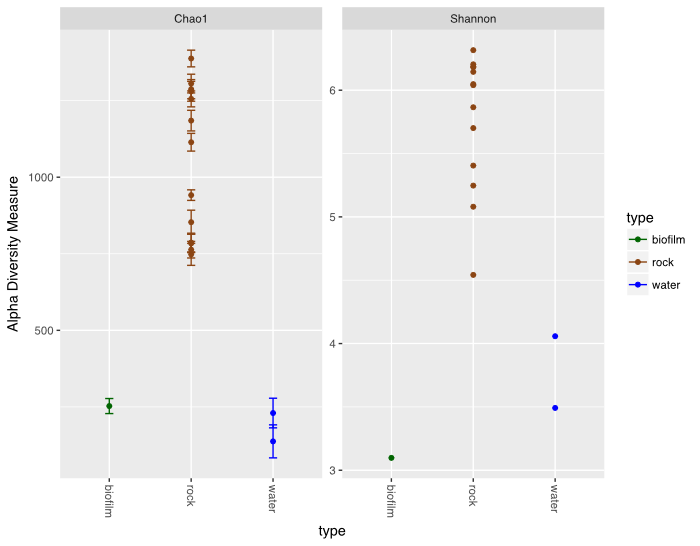
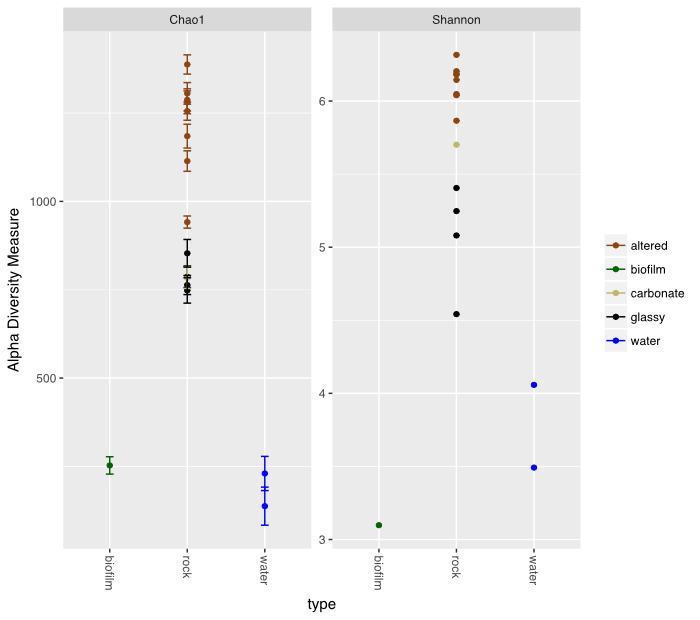
mod

diff --git a/_sass/minima/_base.scss b/_sass/minima/_base.scss
@@ -25,8 +25,6 @@ body {
   font-kerning: normal;
 }
 
-
-
 /**
  * Set `margin-bottom` to maintain vertical rhythm
  */

diff --git a/amplicon/workflow_ex.md b/amplicon/workflow_ex.md
@@ -49,7 +49,9 @@ Lastly, I highly, highly, highly recommend installing RStudio if you don't alrea
 
 # The data
 
-We are going to work with a subset of the dataset published [here](https://www.frontiersin.org/articles/10.3389/fmicb.2015.01470/full). We were exploring an underwater mountain ~3 km down at the bottom of the Pacific Ocean that serves as a low-temperature (~5-10°C) hydrothermal venting site. This amplicon dataset was generated from DNA extracted from crushed basalts collected from across the mountain in order to begin characterizing the microbial communities of these deep-sea rocks. It was generated via Illumina MiSeq 2x300 paired-end sequencing using primers targeting the V4 region of the 16S rRNA gene. There are 20 samples total: 4 extraction blanks (nothing added to DNA extraction kit), 2 bottom water samples, 13 rocks, and one biofilm scraped off of a rock. 
+For a quick overview of the example data we'll be using and where it came from, we are going to work with a subset of the dataset published [here](https://www.frontiersin.org/articles/10.3389/fmicb.2015.01470/full). We were exploring an underwater mountain ~3 km down at the bottom of the Pacific Ocean that serves as a low-temperature (~5-10°C) hydrothermal venting site. This amplicon dataset was generated from DNA extracted from crushed basalts collected from across the mountain with the goal being to begin characterizing the microbial communities of these deep-sea rocks. No one had never been here before, so as is often the purpose of marker-gene sequencing like this, this was going to be our first, broad survey. The sequencing was done on the Illumina MiSeq platform with 2x300 paired-end sequencing using primers targeting the V4 region of the 16S rRNA gene. There are 20 samples total: 4 extraction blanks (nothing added to DNA extraction kit), 2 bottom water samples, 13 rocks, and one biofilm scraped off of a rock. None of these details are important for you to remember, it's just to give some overview.  
+
+In the following figure, overlain on the map are the rock sample collection locations, and the panes on the right show examples of the 3 distinct types of rocks collected: 1) basalts with highly altered, thick outer rinds (>1 cm); 2) basalts that were smooth, glassy, thin exteriors (~1-2 mm); and 3) one calcified carbonate.
 
 <center><img src="{{ site.url }}/images/dorado.png"></center>
 
@@ -100,7 +102,7 @@ So our first step is to merge these forward and reverse reads for each sample. T
 usearch -fastq_mergepairs *_R1.fq -fastqout all_samples_merged.fq -relabel @
 ```
 
-So here the magic of the `*` wild card is grabbing all forward read files for every file that ends in .fq. We didn't need to specify the reverse reads because usearch finds them automatically for us. We specify the output file with the `-fastqout` argument. And the last part, `-relabel @`, tells the program to append the file name the merged sequence originated from to its header. Along with the command finishing we get some overall summary statistics printed to the terminal, such as how many total sequences we had and what proportion of the paired reads successfully merged. Checks like this are needed in order to have some idea of what's going on with your sequences as you move them along. Here almost 90% of them successfully merged, which is pretty good. 
+So here the magic of the `*` wild card is grabbing all forward read files for every file that ends in .fq. We didn't need to specify the reverse reads because usearch finds them automatically for us. We specify the output file with the `-fastqout` argument. And the last part, `-relabel @`, tells the program to append the file name the merged sequence originated from to its header. Along with the command finishing we get some overall summary statistics printed to the terminal, such as how many total sequences we had and what proportion of the paired reads successfully merged. Checks like this are needed in order to have some idea of what's going on with your sequences as you move them along. Here almost 90% of them successfully merged, which is pretty good.
 
 ## Cutting off primers
 Due to the degeneracy of primers they tend to introduce non-biological variation. As such it's important to cut them off, particularly if you are going to perform any sort of single-nucleotide resolution clustering. Here we have our primers in a fasta file that looks like this:
@@ -157,7 +159,7 @@ So, to generate our ASVs:
 usearch -unoise3 unique_seqs.fa -zotus ASVs.fa -tabbedout unoise3.txt
 ```
 
-By default, usearch's `-unoise3` command filters out any that are less abundant than 8, and removes sequences it suspects are chimeric, details of which can be found [here](https://www.biorxiv.org/content/biorxiv/early/2016/09/09/074252.full.pdf). From the output to the terminal we can see we have ~1700 ASVs. In theory, these are true biological sequences recovered from our 20 samples. 
+By default, usearch's `-unoise3` command filters out any that are less abundant than 8, and removes sequences it suspects are chimeric, details of which can be found [here](https://www.biorxiv.org/content/biorxiv/early/2016/09/09/074252.full.pdf). From the output to the terminal we can see we have ~1700 ASVs. In theory, these are true biological sequences recovered from our 20 samples.
 
 ## Generating a count table
 The count table is what tells us how many times each sequence appears in each sample. It is the end-product of all this processing that we can't wait to get into R. The way the count table is generated in usearch is a bit different than most other approaches. Here, now that usearch has identified what it believes to be true biological sequences, the `-otutab` command is used to attempt to map all of our merged sequences to the ASVs. By default it does this by requiring a merged sequence to be >97% similar to an ASV, and if a sequence crosses that threshold for more than one ASV it is counted for the one it is most similar to only. Incorporating another 97% threshold here may seem a bit confusing at first, but usearch's thinking is that more often than not, the 'true' ASV sequences recovered were more than likely the source of the majority of sequences that are within 3% of them, as the source of this 3% variation is believed to be the result of sequencing and pcr errors. Additionally, it is still fundamentally different to have your ASV units built without similarity clustering, as opposed to 97% OTUs. That said, when I ran through this I decided to bump up the required % similarity to 98.5% when mapping our merged sequences to our ASVs to generate our count table. The downside to this is you will lose some data (as less sequences will map to an ASV), but if you have a decent amount of sequences per sample then you can afford to lose some for the sake of being a bit more conservative. 
@@ -175,7 +177,7 @@ Note that the input file is our previous merged sequences file after we trimmed 
 <br>
 
 ## Assigning taxonomy
-The final step in our sequence processing is to assign taxonomy to our ASV sequences. There are multiple ways to do this as well. I usually run a few different ways and put them all in a table next to each other. Then I can be more somewhat more confident when there is some consistency. Something to keep in mind is taxonomy-assigning software is generally built to be fast. To do this, most rely on kmer frequencies to classify to a reference, rather than alignments. If you begin analyzing your data and some particular OTUs or ASVs emerge as being imporant to the overall story it's a good idea to take that sequence and BLAST it to try to get more information about it. 
+The final step in our sequence processing is to assign taxonomy to our ASV sequences. There are multiple ways to do this as well. I usually run a few different ways and put them all in a table next to each other, and then I can be more somewhat more confident when there is some consistency. But something important to keep in mind is that taxonomy-assigning software is generally built to be fast. To do this, most rely on kmer frequencies to classify to a reference, rather than alignments. If you begin analyzing your data and some particular OTUs or ASVs emerge as being imporant to the overall story, it's a good idea to take those sequences and BLAST them to try to get more information about it. 
 
 Here we will use usearch's `sintax` program with the RDP training set reference fasta available from [here](https://www.drive5.com/usearch/manual/sintax_downloads.html).
 
@@ -202,7 +204,7 @@ And now we're ready to move onto analysis!
 <br>
 
 # Analysis in R
-This portion assumes you already have some baseline experience with R – meaning we won't be breaking down any syntax or going over any basics of R here (that's presented elsewhere). But even if you don't have any experience with R yet, you'll still be able to follow along here and run everything, you'll just be on your own here as far as figuring out how the code works. A full R script of everything done here is available in the "R_working_dir" subdirectory called "amplicon_example_analysis.R" that can be opened in R if you prefer to follow along with that.
+This portion assumes you already have some baseline experience with R – meaning we won't be breaking down any syntax or going over any basics of R here (that's presented elsewhere). But even if you don't have any experience with R yet, you'll still be able to follow along here and run everything, you'll just be on your own as far as figuring out how the code works. A full R script of everything done here is available in the "R_working_dir" subdirectory called "amplicon_example_analysis.R" that can be opened in R if you prefer to follow along with that rather than copying and pasting commands from here. Either way, this isn't about the R code (right now).
 
 ## Setting up our working environment
 To get started let's open up RStudio. This portion assumes you have some baseline experience with R already. If you don't, you'll still be able to follow along and piece things together set our current working directory to where we just left our new files, and install the packages we'll need:
@@ -241,18 +243,20 @@ If you have a problem loading any of these libraries, close and then restart R a
 
  
 ## Reading in our data
-Now we're going to read in our counts table, taxonomy table, and a table with information about each sample. 
+Now we're going to read in our counts table, our taxonomy table, and a table with information about each sample including temperature of venting fluids at the site of collection ("temp"), the "type" of sample it is, and a qualitative characteristic ("char") of the rocks.
 
 ```R
 count_tab <- read.table("ASV_counts.txt", header=T, row.names=1, check.names=F)
 
 tax_tab <- as.matrix(read.table("ASV_tax.txt", header=T, row.names=1, check.names=F, na.strings="", sep="\t"))
 
-sample_info_tab <- read.table("sample_info.txt", header=T, row.names=1, check.names=F) # column 2 of sample_info_tab tells us what each sample is: 'blank', water, rock, or biofilm
+sample_info_tab <- read.table("sample_info.txt", header=T, row.names=1, check.names=F)
 ```
 
 ## Treatment of "blanks" 
-First we want to deal with our "blanks" (those samples labeled B1-B4). In this case these refer to extraction blanks – meaning when doing the DNA extractions, we ran some extractions alongside the normal ones where we didn't add anything to the kit's starting lysis tubes. These are processed the same as the real samples and sent for sequencing as well. Sequences that show up in the blanks can be the result of over-amplification of contaminant DNA introduced from things like the DNA extraction or sequencing kit reagents, **or** cross-contamination from real samples into the blanks. As such, strictly throwing away any ASV that shows up at all in the blanks (i.e. disregarding that ASV in all samples) is not wise. Imagine an ASV that contains 90,000 out of 100,000 sequences in a true sample, and has 6 sequences out of 20,000 in a blank. In such a case it is almost certain those sequences came to be in the blank due to cross-contamination from the real sample. I've seen similar cases to this in every dataset I've looked at. 
+First we want to deal with our "blanks" (those samples labeled B1-B4). In this case these refer to extraction blanks – meaning when doing the DNA extractions, we ran some extractions alongside the normal ones where we didn't add anything to the kit's starting lysis tubes. These are processed the same as the real samples and sent for sequencing as well. You may or may not have these with your data, if you didn't do it this time, be sure to next time you do an amplicon sequencing run :) 
+
+Sequences that show up in the blanks can be the result of over-amplification of contaminant DNA introduced from things like the DNA extraction or sequencing kit reagents, **or** they can be cross-contamination from real samples into the blanks. As such, strictly throwing away any ASV that shows up at all in the blanks (i.e. disregarding that ASV in all samples) is not wise. Imagine an ASV that contains 90,000 out of 100,000 sequences in a true sample, and has 6 sequences out of 20,000 in a blank. In such a case it is almost certain those sequences came to be in the blank due to cross-contamination from the real sample. I've seen similar cases to this in every dataset I've looked at. 
 
 As with most things, there is no one way or best way to do this. What I do (and did in the [paper](https://www.frontiersin.org/articles/10.3389/fmicb.2015.01470/full) these data come from) is compare normalized totals of the ASVs (or OTUs) in the blanks and in the true samples, and use an arbitrary threshold to decide if it is more likely to be contamination from reagents or more likely to have ended up in the blanks due to cross-contamination from a real sample. The arbitrary threshold I apply is that if the sample-normalized count is more than an order of magnitude greater than the blank-normalized count for a given ASV/OTU, then it is kept – if it is not, then it is thrown out and presumed to have been contamination. Here's what this looks like in this case:
 
@@ -275,8 +279,20 @@ colSums(count_tab[!rownames(count_tab) %in% blank_ASVs, ]) / colSums(count_tab) 
  
   # now that we've used our extraction blanks to remove ASVs that were likely due to contamination, we're going to trim down our count table by removing those sequences and the blank samples from further analysis
 filt_count_tab <- count_tab[!rownames(count_tab) %in% blank_ASVs, -c(1:4)]
-  # and make a filtered sample info table
+  # make a filtered sample info table
 filt_sample_info_tab<-sample_info_tab[-c(1:4), ]
+
+  # and let's add some colors to the sample info table that are specific to sample types and characteristics that we can use when plotting things
+    # we'll color the water samples blue: 
+filt_sample_info_tab$color[filt_sample_info_tab$char == "water"] <- "blue"
+    # the biofilm sample a darkgreen:
+filt_sample_info_tab$color[filt_sample_info_tab$char == "biofilm"] <- "darkgreen"
+    # the basalts with highly altered, thick outer rinds (>1 cm) brown ("chocolate4" is the best brown I can find...):
+filt_sample_info_tab$color[filt_sample_info_tab$char == "altered"] <- "chocolate4"
+    # the basalts with smooth, glassy, thin exteriors black:
+filt_sample_info_tab$color[filt_sample_info_tab$char == "glassy"] <- "black"
+    # and the calcified carbonate sample an ugly yellow:
+filt_sample_info_tab$color[filt_sample_info_tab$char == "carbonate"] <- "darkkhaki"
 ```
 
 ## Beta diversity
@@ -300,7 +316,7 @@ euc_dist <- dist(t(vst_trans_count_tab))
 ```
 
 <h4><center>Hierarchical clustering</center></h4>
-Now that we have our Euclidean distance matrix, let's look at a hierarchical clustering of our samples.
+Now that we have our Euclidean distance matrix, let's make and plot a hierarchical clustering of our samples.
 
 ```R
 euc_clust <- hclust(euc_dist, method="ward.D2")
@@ -310,7 +326,7 @@ euc_clust <- hclust(euc_dist, method="ward.D2")
   # 2) if you want you can rotate clusters with the rotate() function of the dendextend package
 
 euc_dend <- as.dendrogram(euc_clust, hang=0.1)
-dend_cols <- filt_sample_info_tab$col[order.dendrogram(euc_dend)]
+dend_cols <- filt_sample_info_tab$color[order.dendrogram(euc_dend)]
 labels_colors(euc_dend) <- dend_cols
 
 plot(euc_dend, ylab="VST Euc. dist.")
@@ -319,39 +335,59 @@ plot(euc_dend, ylab="VST Euc. dist.")
 <center><img src="{{ site.url }}/images/hclust.png"></center>
 
 <br>
-So from our first peek, the broadest clusters separate the biofilm and water samples from the rocks. And the next tier splits the rocks into two groups, with R8–11 separate from the others. The splitting of the basalts into these two groups actually correlates both with location of collection, and the level of alteration of the basalts. If we look at the figure from the top of the page again, we can see that rocks R8–R11 were all recovered from the southern end of the outrcrop. These 4 also happen to have be all of the glassier type of basalt with thin (~1-2 mm), smooth exteriors (like the one pictured in box C), while all of the rest (R1-R6, and R12) had more highly altered, thick (>1 cm) outer rinds (box B). (R7 was the calcium carbonate, box D).
+So from our first peek, the broadest clusters separate the biofilm and water samples from the rocks. The next tier splits the rocks into two groups, with samples R8–R11 separate from the others (R1-R6, and R12). As we can see from the coloring we added, R8-R11 were all of the glassier type of basalt with thin (~1-2 mm), smooth exteriors, while the rest (R1-R6, and R12) had more highly altered, thick (>1 cm) outer rinds (excluding the oddball carbonate which isn't a basalt, R7). This is starting to suggest that level of alteration of the basalt may be correlated with community structure. If we look at the map figure again, we can also see that level of alteration also co-varies with whether samples were collected from the northern or southern end of the outcrop as all of the more highly altered basalts were collected from the northern end.
+
+<center><img src="{{ site.url }}/images/dorado.png"></center>
+
+<br>
 
 <h4><center>Ordination</center></h4>
+Generally speaking, ordinations provide visualizations of sample-relatedness based on dimension reduction – this is where the 'multidimensional scaling' term (MDS) fits in. The 'dimensions' could be, for instance, whatever you measured in each sample. Principle coordinates analysis (PCoA) is a type of multidimensional scaling is a type of multidimensional scaling that operates on dissimilarities or distances. Here we're going to generate and plot our PCoA with *phyloseq*, because it is very convenient for doing such things. But because we're still doing beta diversity here, we want to use our transformed table. So we're going to make a new *phyloseq* object with our *DESeq2*-transformed table and generate the PCoA from that.
+
+```R
+  # making new phyloseq object with transformed table
+vst_count_phy <- otu_table(vst_trans_count_tab, taxa_are_rows=T)
+vst_physeq <- phyloseq(vst_count_phy, sample_info_tab_phy)
+
+  # generating and visualizing the PCoA with phyloseq
+vst_pcoa <- ordinate(vst_physeq, method="MDS", distance="euclidean")
+eigen_vals <- vst_pcoa$values$Eigenvalues # allows us to scale the axes according to their magnitude of separating apart the samples
+
+
+plot_ordination(vst_physeq, vst_pcoa, color="char") + 
+  labs(col="type") + geom_point(size=1) + 
+  geom_text(aes(label=rownames(filt_sample_info_tab), hjust=0.3, vjust=-0.4)) + 
+  coord_fixed(sqrt(eigen_vals[2]/eigen_vals[1])) + ggtitle("PCoA") + 
+  scale_color_manual(values=unique(filt_sample_info_tab$color[order(filt_sample_info_tab$char)])) + 
+  theme(legend.position="none")
+```
 
 <center><img src="{{ site.url }}/images/pcoa.png"></center>
 
 <br>
+This is just providing us with a different initial overview of how our samples relate to each other. Inferences that are consistent with the hierarchical clustering above can be considered a bit more robust if the same general trend emerges from both approaches. It's important to remember that these are **exploratory visualizations** and do not say anything statistically about our samples. But our initial exploration here shows us the rock microbial communities seem to be more similar to each other than they are to the water samples (which is what I wanted to see, so this was a good start to me), and focusing on just the basalts (brown and black labels), these visualizations both suggest their communities may correlate with level of exterior alteration.
 
 ## Alpha diversity
-Alpha diversity entails using summary metrics to describe individual samples, and it is a very tricky thing when working with amplicon data. There are a lot of tools from macro-ecology that have been co-opted into the microbial ecology world that just simply do not work the same. If and when I use any alpha diversity metrics, I mostly consider them useful for relative comparisons of samples from the same experiment. And I am absolutely going to ask some experts (ahem, @SherlockPHolmes and @AmyDWallis) to take a look at this part to be certain I'm not leading anyone astray here. But here are a few things I've done recently (unless I'm later informed this is wrong – then these are examples of what *not* to do).
+Alpha diversity entails using summary metrics that describe individual samples, and it is a very tricky thing when working with amplicon data. There are a lot of tools from macro-ecology that have been co-opted into the microbial ecology world that just simply do not work the same. If and when I use any alpha diversity metrics, I mostly consider them useful for relative comparisons of samples from the same experiment. And I am absolutely going to ask some experts on the subject (ahem, @SherlockPHolmes and @AmyDWallis) to take a look at this part to be certain I'm not leading anyone astray here. But here are a few things I've done before (unless I'm later informed this is wrong – then these were always meant to be examples of what *not* to do).
 
 <h4><center>Rarefaction curves</center></h4>
-It is not okay to use rarefaction curves to estimate total richness of a sample, or to extrapolate anything from them really, but I believe they can still be useful depending on the data. Let's generate the plot and then we'll see why with this example. We'll be using the `rarecurve()` function from the package [*vegan*](https://github.com/vegandevs/vegan) here. 
+It is not okay to use rarefaction curves to estimate total richness of a sample, or to extrapolate anything from them really, but I believe they can still be useful depending on the data. Let's generate the plot and then we'll see why with this example. We'll be using the `rarecurve()` function from the package [*vegan*](https://github.com/vegandevs/vegan) here. Note that *vegan* expects rows to be samples and observations (our ASVs here) to be columns, which is why we transpose the table in the command with `t()`.
 
 ```R
-  # first adding colors to the sample info table based on sample type
-filt_sample_info_tab$col[filt_sample_info_tab$type == "water"] <- "blue"
-filt_sample_info_tab$col[filt_sample_info_tab$type == "rock"] <- "chocolate4"
-filt_sample_info_tab$col[filt_sample_info_tab$type == "biofilm"] <- "darkgreen"
-
-  # and plotting the rarefaction curves
-rarecurve(t(filt_count_tab), step=100, col=filt_sample_info_tab$col, lwd=2, ylab="ASVs")
-abline(v=(min(rowSums(t_filt_count_tab))))
+rarecurve(t(filt_count_tab), step=100, col=filt_sample_info_tab$color, lwd=2, ylab="ASVs")
+abline(v=(min(rowSums(t(filt_count_tab)))))
 ```
 <center><img src="{{ site.url }}/images/rarefaction.png"></center>
 
-In this plot, all of the rock samples are colored brown, the water samples are blue, the biofilm sample is colored green, and the vertical line represents the sampling depth of the sample with the least amount of sequences. In this case, I think it's a pretty safe conclusion to draw that the rock samples are more diverse than the water samples or the biofilm sample (based on where they all cross the vertical line of lowest sampling depth), and that they also have a higher richness. There also seems to be some correlation with the level of alteration of the basalts. Samples R8, R9, R10, and R11 were all of the glassier type of basalt with thin (~1-2 mm), smooth exteriors (like the one pictured in box C in the figure at the top of this page), while all of the rest (R1-R6, and R12) had more highly altered, thick (>1 cm) outer rinds (like the one in box B above). R7 was the calcium carbonate (box D). 
+In this plot, samples are colored the same way as above, and the black vertical line represents the sampling depth of the sample with the least amount of sequences (a bottom water sample, BW1, in this case). This view suggests that the rock samples (all of them) are more diverse and have a greater richness than the water samples or the biofilm sample (based on where they all cross the vertical line of lowest sampling depth). And again, just focusing on the brown and black lines for the two types of basalts we have, they seem to show similar trends within their respective groups that suggest the more highly altered basalts (brown lines) may host more diverse microbial communities than the glassier basalts (black lines). 
 
 <h4><center>Richness and diversity estimates</center></h4>
-Here we are going to use the [*phyloseq*]() package to plot chao1 richness estimates and shannon diversity using the function `plot_richness()` – which the developers provide some examples of [here](https://joey711.github.io/phyloseq/plot_richness-examples.html). 
+Here we're going to plot Chao1 richness esimates and Shannon diversity values. Chao1 is a richness estimator, "richness" being the total number of distinct units in your sample, "distinct units" being whatever you happen to be measuring (ASVs in our case here). And Shannon's diversity index is a metric of diversity. The term diversity includes "richness" (the total number of your distinct units) and "evenness" (the relative proportions of all of your distinct units).
+
+We are going to go back to using the [*phyloseq*]() package for this to use the function `plot_richness()` – which the developers kindly provide some examples of [here](https://joey711.github.io/phyloseq/plot_richness-examples.html). 
 
 ```R
-  # first we need to create a phyloseq object
+  # first we need to create a phyloseq object using our un-transformed count table
 count_tab_phy <- otu_table(filt_count_tab, taxa_are_rows=T)
 tax_tab_phy <- tax_table(tax_tab)
 sample_info_tab_phy <- sample_data(filt_sample_info_tab)
@@ -359,29 +395,50 @@ sample_info_tab_phy <- sample_data(filt_sample_info_tab)
 ASV_physeq <- phyloseq(count_tab_phy, tax_tab_phy, sample_info_tab_phy)
 
   # and now we can call the plot_richness() function on our phyloseq object
-plot_richness(ASV_physeq, color="type", measures=c("Chao1", "Shannon")) + scale_color_manual(values=c("darkgreen", "chocolate4", "blue"))
+plot_richness(ASV_physeq, color="char", measures=c("Chao1", "Shannon")) + 
+  scale_color_manual(values=unique(filt_sample_info_tab$color[order(filt_sample_info_tab$char)])) +
+  theme(legend.title = element_blank())
 ```
 
 <center><img src="{{ site.url }}/images/plot_richness.png"></center>
 
+Before saying anything about this I'd like to stress again that these are *not* interpretable as "real" numbers of anything (due to the nature of amplicon data), but they can still be useful as relative metrics of comparison. For example, we again see from this that the more highly altered basalts seem to host communities that are more diverse and have a higher richness than the other rocks, and that the water and biofilm samples are less diverse than the rocks. 
+
+And just for another quick example of why *phyloseq* is pretty awesome, let's plot grouping sample types while still coloring by the characteristics column:
+
 ```R
-  # or plot by grouping sample types very easily (phyloseq is pretty awesome)
-plot_richness(ASV_physeq, x="type", color="type", measures=c("Chao1", "Shannon")) + scale_color_manual(values=c("darkgreen", "chocolate4", "blue"))
+plot_richness(ASV_physeq, x="type", color="char", measures=c("Chao1", "Shannon")) + 
+  scale_color_manual(values=unique(filt_sample_info_tab$color[order(filt_sample_info_tab$char)])) +
+  theme(legend.title = element_blank())
 ```
 
 <center><img src="{{ site.url }}/images/plot_richness_by_type.png"></center>
 
 ## Taxonomic summaries
+Don't forget that the taxonomy called here was done rapidly and by default has to sacrifice some specificity for speed. For the sequences that become important in your story, you should absolutely pull them out and BLAST them, and possibly make phylogenetic trees to get a more robust idea of who they are most closely related to. 
+
+Let's start by making some broad summarization figures. *Phyloseq* is also very useful for parsing things down by taxonomy now that we've got all that information in there already.
 
 
-Don't forget the taxonomy called here is done rapidly and by default has to sacrifice some specificity for speed. For the sequences that become important in your story, you should absolutely pull them out and BLAST them, and make phylogenetic trees to get a more robust idea of who they most closely related to. 
+
+## Permutational ANOVA
+
+As we mentioned earlier, we have some information about our samples as well in a table. There are many ways to incorporate this information, but one of the first I typically go to is a permutational ANOVA test to if any of the sample information is predictive of community structure. One way to do this is with the `adonis` function from the *vegan* package. If we look at the help menu for the function, we see this description:
+
+```R
+?adonis
+```
+
+<center><img src="{{ site.url }}/images/adonis_desc.png"></center>
+
+ 
 <br>
 <br>
 
 ---
 <br>
 # So what now?
-Well, now is when you do the science part. Here's where your questions and the experimental design start to guide how you go further. In this paper for instance we ended up incorporating other seafloor basalt studies to identify what looked to be conserved taxa that showed up everywhere (like sulfur-oxidizing Gammaproteobacterium, *Thioprofundum lithotrophicum*, and we also identified that there seems to be a basalt-hosted Thaumarchaeota distinct from those present in the bottom water samples we analyzed (*Nitrosopumilus* sp.). To see more of how this dataset ended up, check out the results and discussion of the [paper](https://www.frontiersin.org/articles/10.3389/fmicb.2015.01470/full). 
+Well, now is when you do the science part. Here's where your questions and the experimental design start to guide how you go further. In this paper for instance we ended up incorporating other seafloor basalt studies to identify what looked to be conserved taxa that showed up everywhere (like a sulfur-oxidizing gammaproteobacterium, *Thioprofundum lithotrophicum*, and we also identified that there seems to be a basalt-hosted Thaumarchaeota distinct from those present in the bottom water samples we analyzed (*Nitrosopumilus* sp.). To see more of how this dataset ended up, check out the results and discussion of the [paper](https://www.frontiersin.org/articles/10.3389/fmicb.2015.01470/full). 
 <br>
 <br>
 
